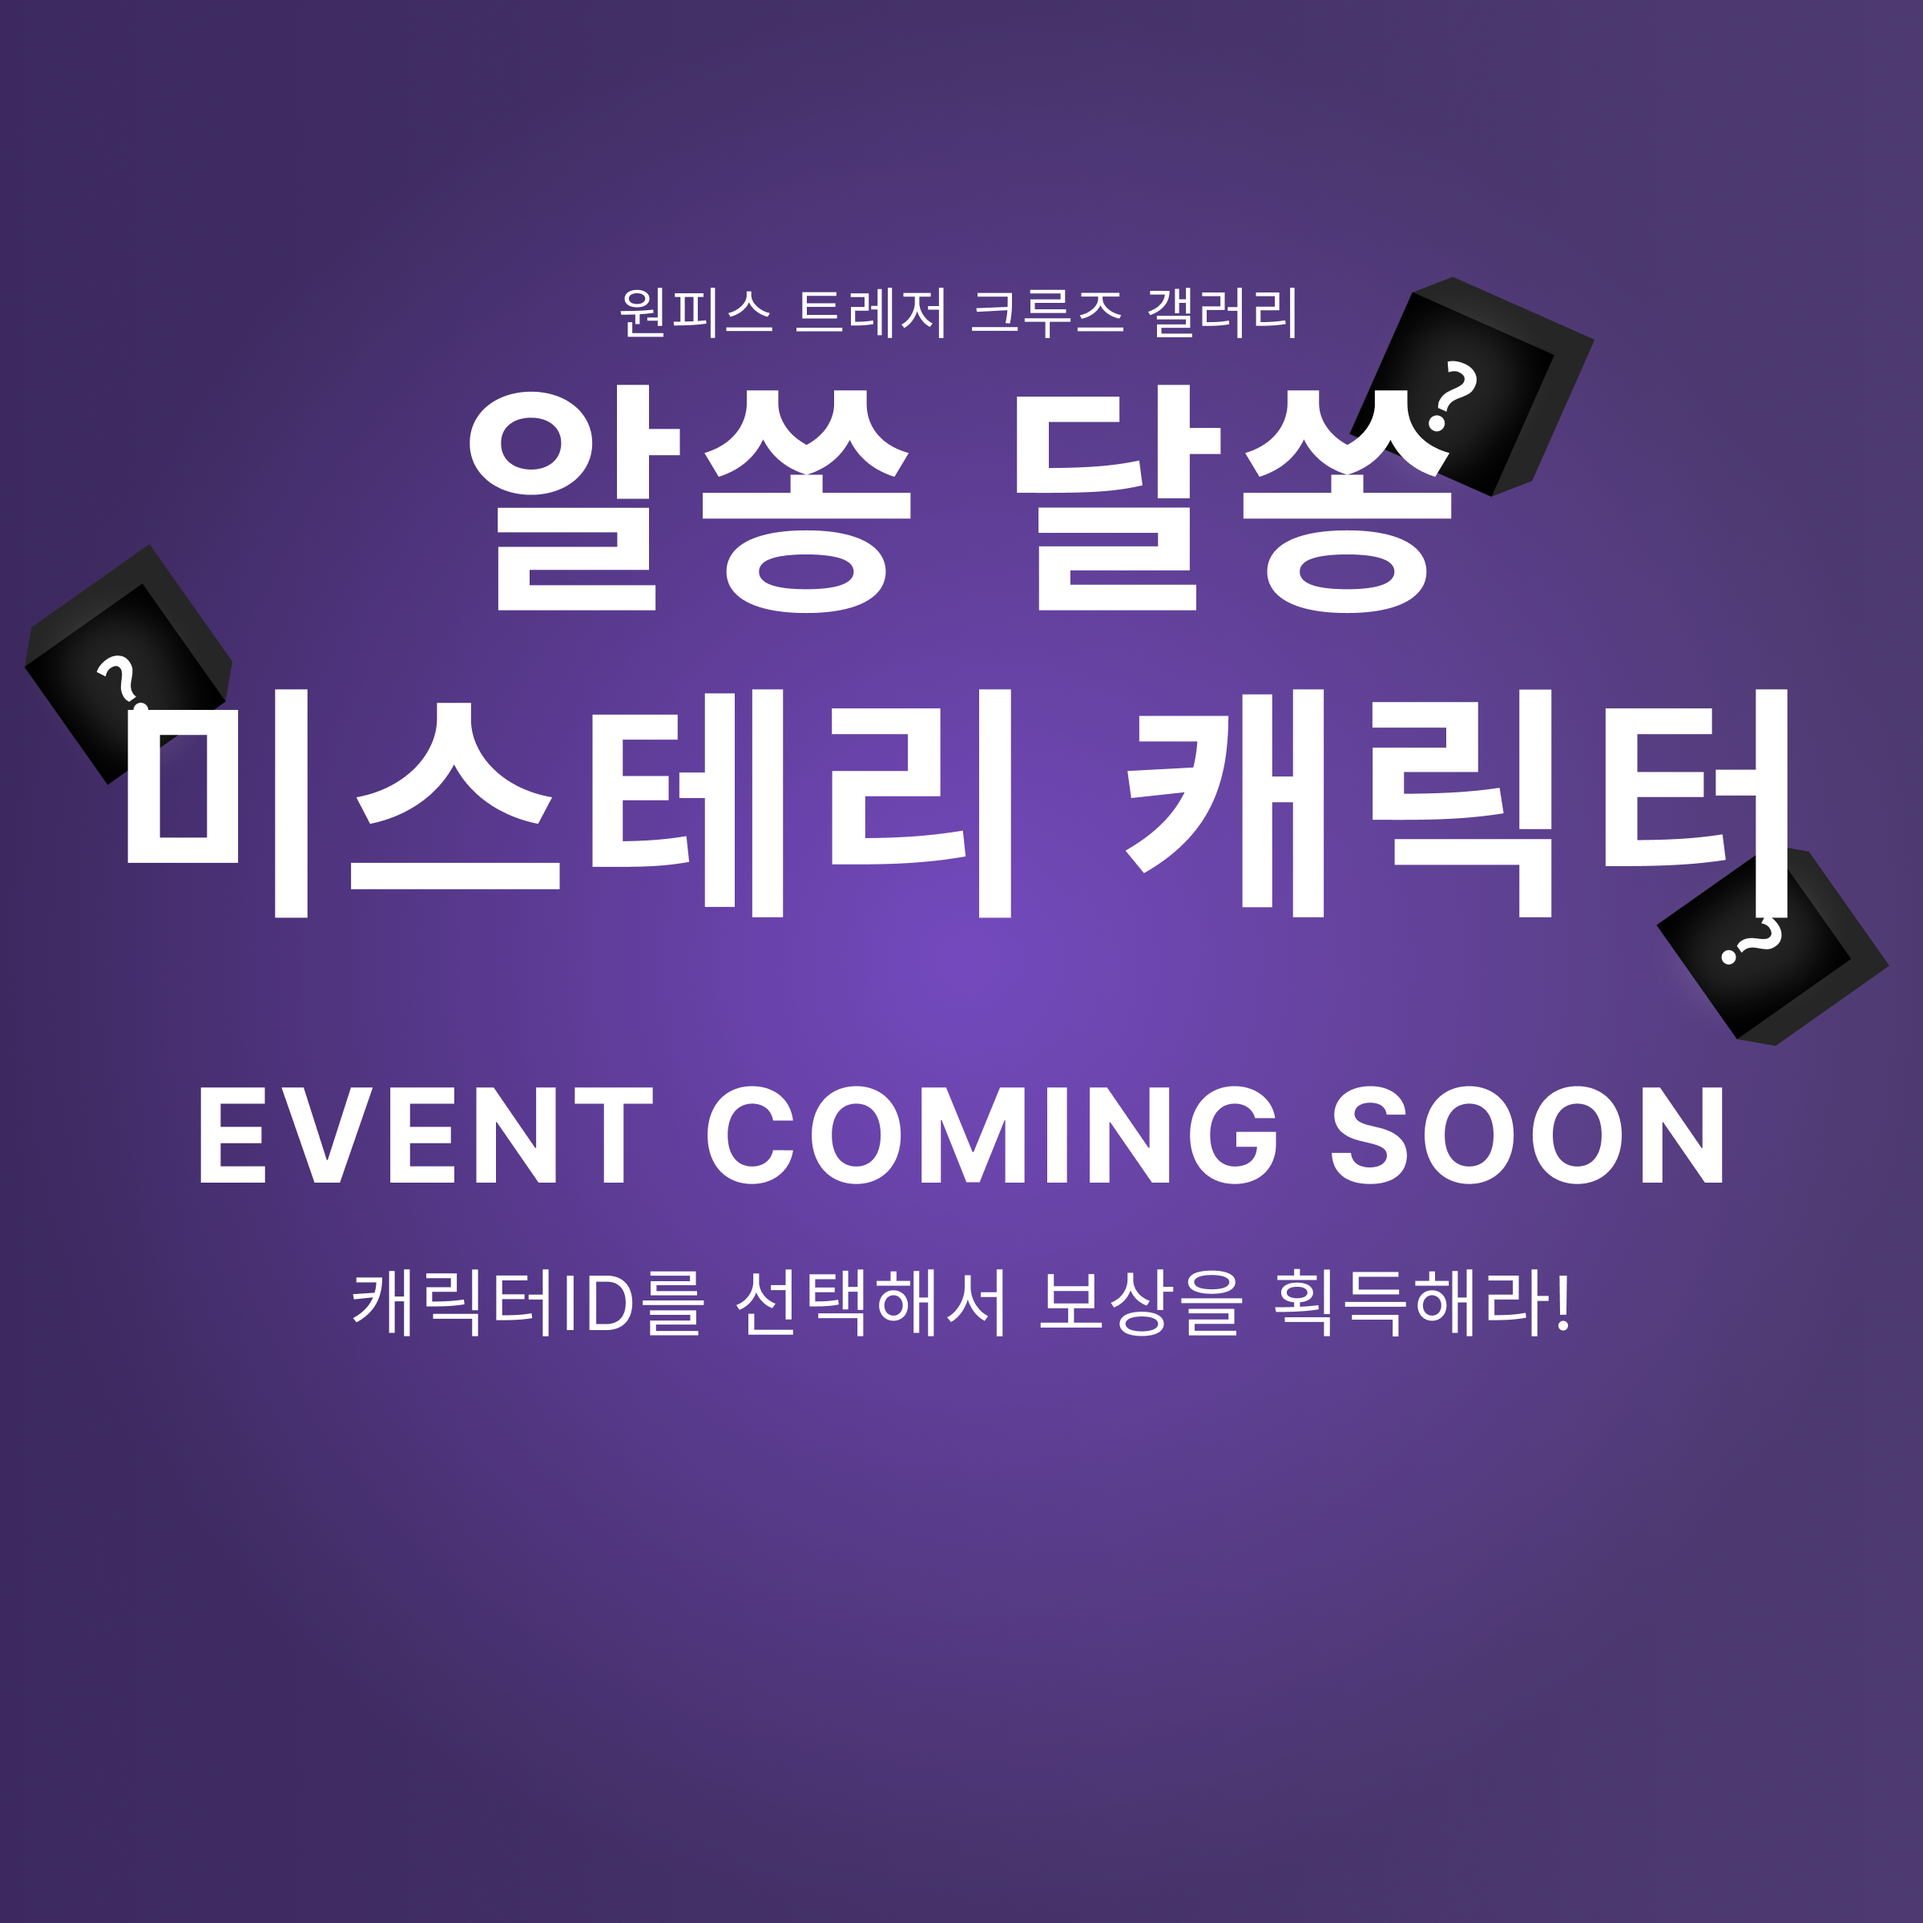
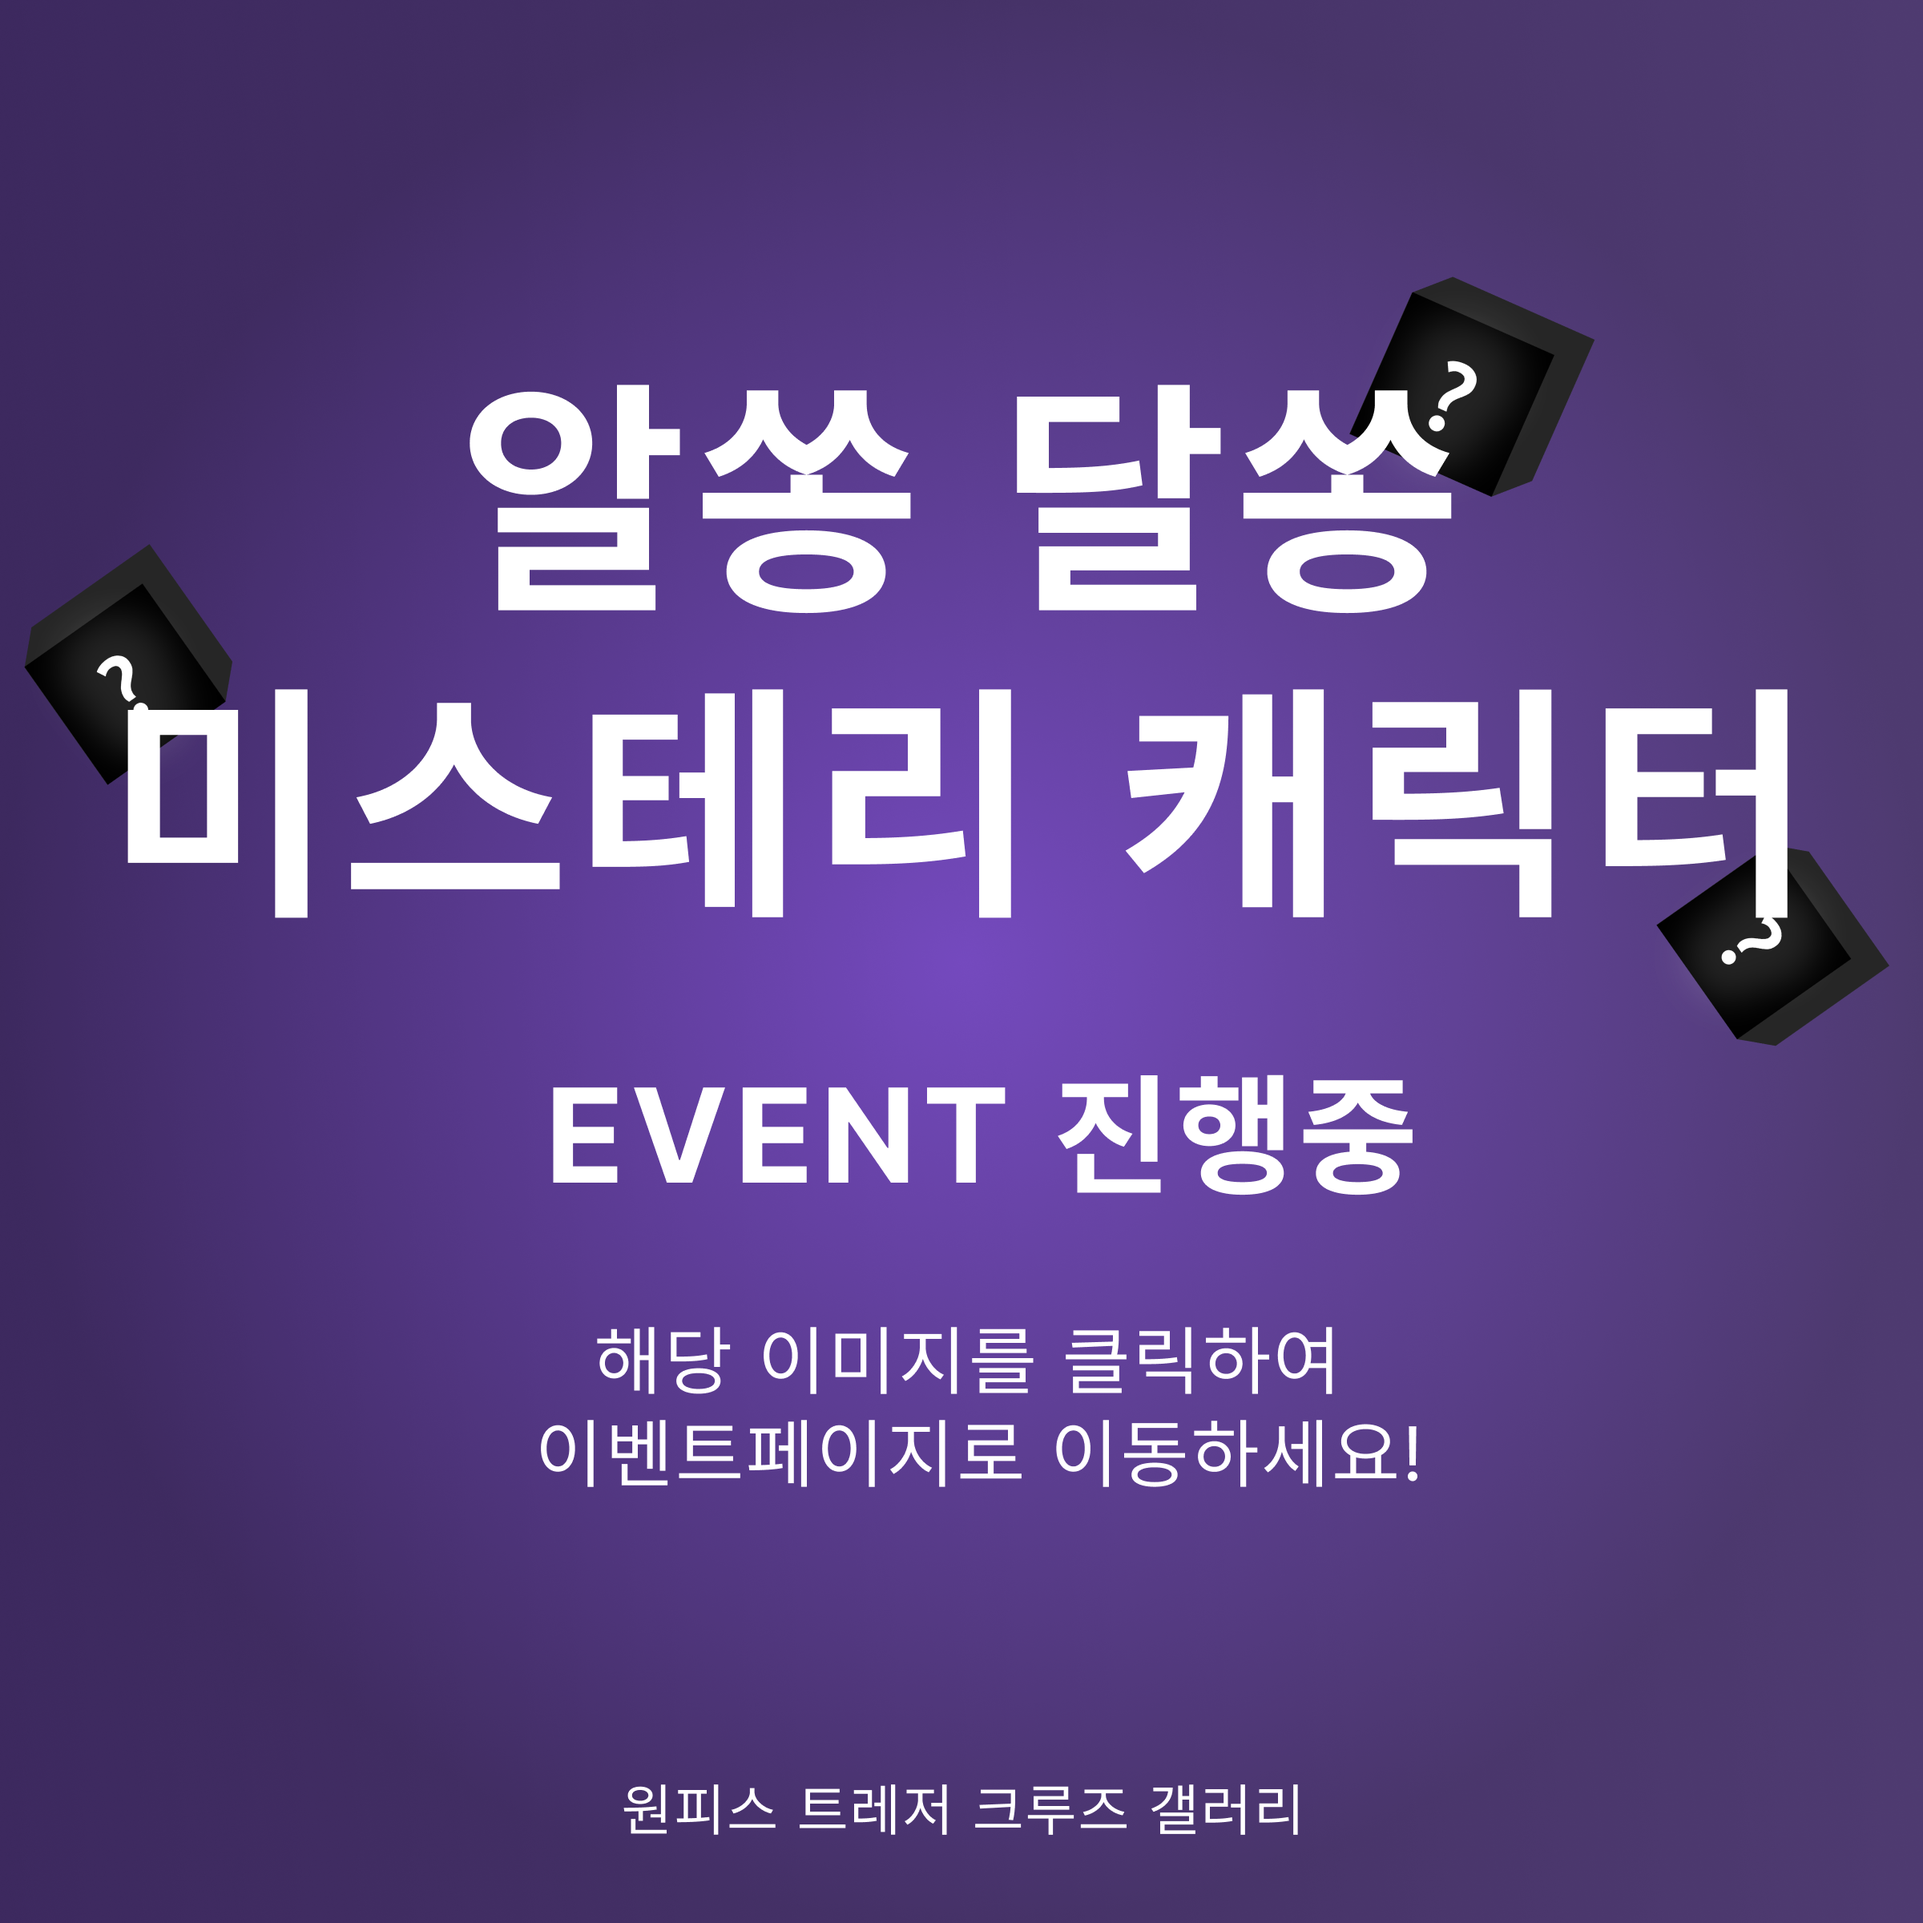
이벤트배너

diff --git a/index.html b/index.html
@@ -42,17 +42,19 @@
   <section class="carousel-section">
     <div class="carousel-track">
       <div class="carousel-slide active">
+      <a href="https://gall.dcinside.com/mgallery/board/view/?id=onepiecetc&no=392657&page=1">
         <picture>
-          <source media="(max-width: 600px)" srcset="./svg/갓벨리스고페스출시600PX.png">
-          <img src="./svg/갓벨리스고페스출시1200PX.png" alt="이미지1" />
+          <source media="(max-width: 600px)" srcset="./svg/알쏭달쏭미스테리캐릭터커밍순.png">
+          <img src="./svg/알쏭달쏭미스테리캐릭터커밍순1200.png" alt="이미지1" />
         </picture>
+      </a>
         <button class="carousel-btn prev" aria-label="이전 이미지">&#60;</button>
         <button class="carousel-btn next" aria-label="다음 이미지">&#62;</button>
       </div>
       <div class="carousel-slide">
         <picture>
-          <source media="(max-width: 600px)" srcset="./svg/알쏭달쏭미스테리캐릭터커밍순.png">
-          <img src="./svg/알쏭달쏭미스테리캐릭터커밍순1200.png" alt="이미지2" />
+          <source media="(max-width: 600px)" srcset="./svg/갓벨리스고페스출시600PX.png">
+          <img src="./svg/갓벨리스고페스출시1200PX.png" alt="이미지2" />
         </picture>
         <button class="carousel-btn prev" aria-label="이전 이미지">&#60;</button>
         <button class="carousel-btn next" aria-label="다음 이미지">&#62;</button>
